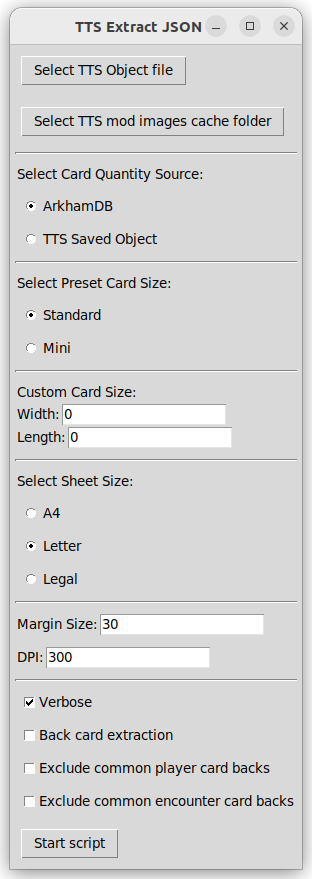
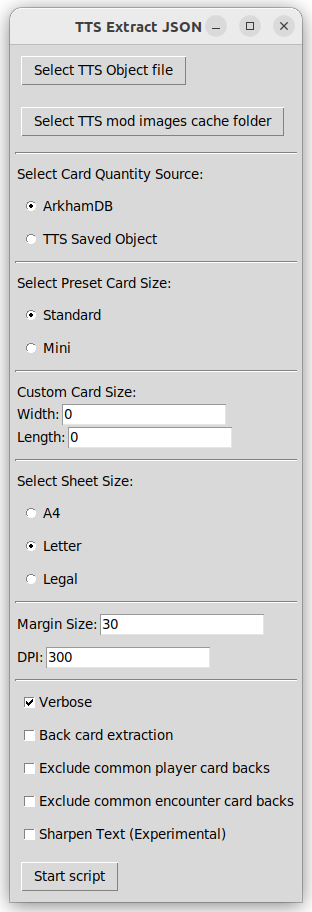
Add experiment "Sharpen Text" feature

Changed region(s): [[0.0577, 0.0, 0.9519, 0.9215], [0.0865, 0.9522, 0.3462, 0.9829]]

diff --git a/tts_extract_json.py b/tts_extract_json.py
@@ -6,7 +6,10 @@ import sys
 import tkinter as tk
 from tkinter import filedialog, BooleanVar
 
-from PIL import Image
+import cv2
+import numpy as np
+import pytesseract
+from PIL import Image, ImageFilter
 import requests
 from urllib.request import urlopen
 
@@ -42,6 +45,7 @@ def parse_args():
     dpi = tk.IntVar(value=300)
     exclude_player_card_backs = BooleanVar()
     exclude_encounter_card_backs = BooleanVar()
+    sharpen_text = BooleanVar()  # Checkbox for sharpening text
 
     # Read the cache path from cachepath.txt if it exists
     if os.path.exists("cachepath.txt"):
@@ -200,6 +204,13 @@ def parse_args():
     )
     exclude_encounter_card_backs_checkbox.pack(pady=5, padx=5, anchor='w')
 
+    sharpen_text_checkbox = tk.Checkbutton(  # Checkbox for sharpening text
+        window,
+        text="Sharpen Text (Experimental)",
+        variable=sharpen_text,
+    )
+    sharpen_text_checkbox.pack(pady=5, padx=5, anchor='w')
+
     # Create a button to start the script
     args = argparse.Namespace()
 
@@ -228,6 +239,7 @@ def parse_args():
         args.dpi = dpi.get()
         args.exclude_player_card_backs = exclude_player_card_backs.get()
         args.exclude_encounter_card_backs = exclude_encounter_card_backs.get()
+        args.sharpen_text = sharpen_text.get()  # Store the value of sharpen_text
 
         window.quit()
 
@@ -539,6 +551,37 @@ def arrange_images(images, args):
         new_height = image_size[1]
         new_width = int((new_height / height) * width)
         extracted_image = extracted_image.resize((new_width, new_height), Image.LANCZOS)
+
+        if args.sharpen_text:  # Sharpen the image if the checkbox is checked
+
+            # Convert PIL Image to OpenCV format
+            extracted_image_cv = np.array(extracted_image)
+
+            # Convert the image to grayscale
+            gray = cv2.cvtColor(extracted_image_cv, cv2.COLOR_BGR2GRAY)
+
+            # Use Tesseract to detect text regions
+            data = pytesseract.image_to_data(gray, output_type=pytesseract.Output.DICT)
+            n_boxes = len(data["level"])
+            mask = np.zeros_like(extracted_image_cv)
+            for i in range(n_boxes):
+                (x, y, w, h) = (
+                    data["left"][i],
+                    data["top"][i],
+                    data["width"][i],
+                    data["height"][i],
+                )
+                mask[y : y + h, x : x + w] = 1
+
+            # Sharpen the entire image
+            blurred = cv2.GaussianBlur(extracted_image_cv, (3, 3), 0)
+            sharpened = cv2.addWeighted(extracted_image_cv, 2.0, blurred, -1.0, 0)
+
+            # Apply sharpening to only the text regions
+            extracted_image_cv = extracted_image_cv * (1 - mask) + sharpened * mask
+
+            # Convert the image back to PIL Image format
+            extracted_image = Image.fromarray(extracted_image_cv)
 
         # Paste the image onto the current page
         current_page.paste(

diff --git a/README.md b/README.md
@@ -5,6 +5,7 @@
 1. Python must be installed.
 2. The Python installation must include `tkinter`.
 3. Install dependencies. `pip install -r requirements.txt`.
+4. If using the "sharpen text" feature, you need to [install Tesseract](https://github.com/tesseract-ocr/tesseract#installing-tesseract)
 
 ## Interface and Usage
 
@@ -24,8 +25,9 @@
 10. The "Verbose" option toggles the amount of informational statements that are printed to the terminal console while the script is running.
 11. The "Back card extraction" option toggles whether the backs of cards will be included in the output.
 12. The 'Exclude player card back' and 'Exclude encounter card back' options control whether the purple player card back or the yellow encounter card back, of each card, will be included in the output PDF.
-13. When you are satisfied with all of your chosen options, you can press "Start Script" to begin producing your PDF. The GUI window will remain onscreen and automatically close once the script is done running. You can also follow along with the printed statements to the console, especially if the "Verbose" option is enabled. The generated file will be in the root directory of the project with the name `tts_extract_out.pdf`.
-14. A file called `tts_extract_out_manifest.csv` will be generated containing a record of all the cards, including their duplicates, that were included in the resulting .pdf file.
+13. The experimental "Sharpen Text" option uses Google Tesseract to perform Optical Character Recognition (OCR) to detect text on cards; and Open Computer Vision to perform preprocessing before the OCR to improve text detection accuracy, and sharpening on the detected text.
+14. When you are satisfied with all of your chosen options, you can press "Start Script" to begin producing your PDF. The GUI window will remain onscreen and automatically close once the script is done running. You can also follow along with the printed statements to the console, especially if the "Verbose" option is enabled. The generated file will be in the root directory of the project with the name `tts_extract_out.pdf`.
+15. A file called `tts_extract_out_manifest.csv` will be generated containing a record of all the cards, including their duplicates, that were included in the resulting .pdf file.
 
 ## Related Literature
 
